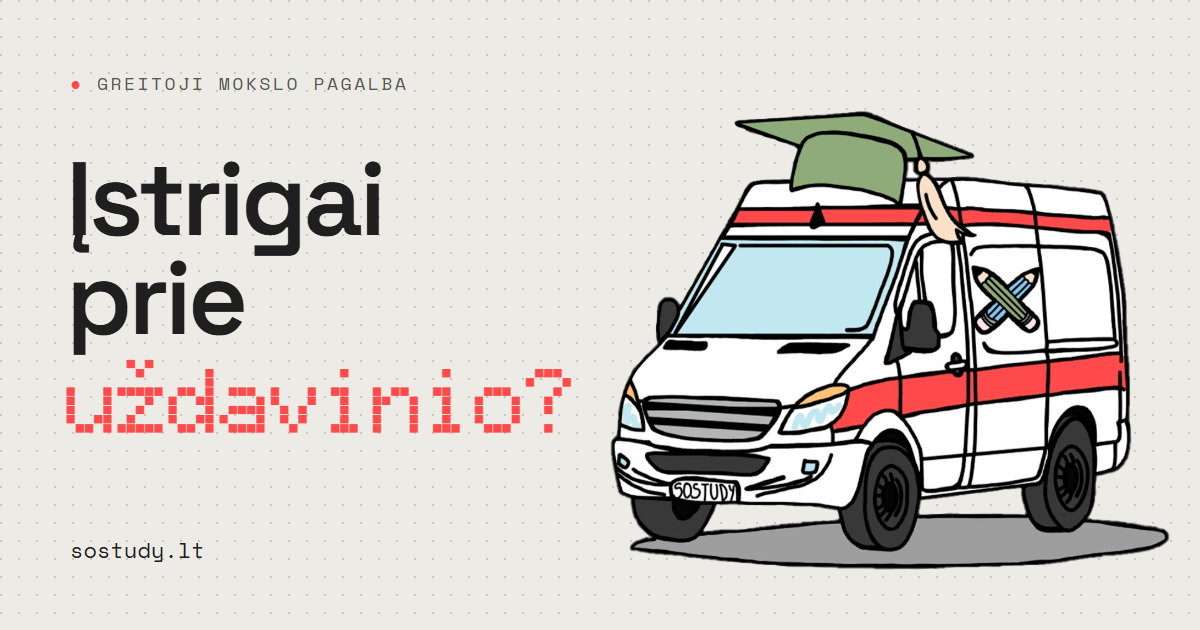
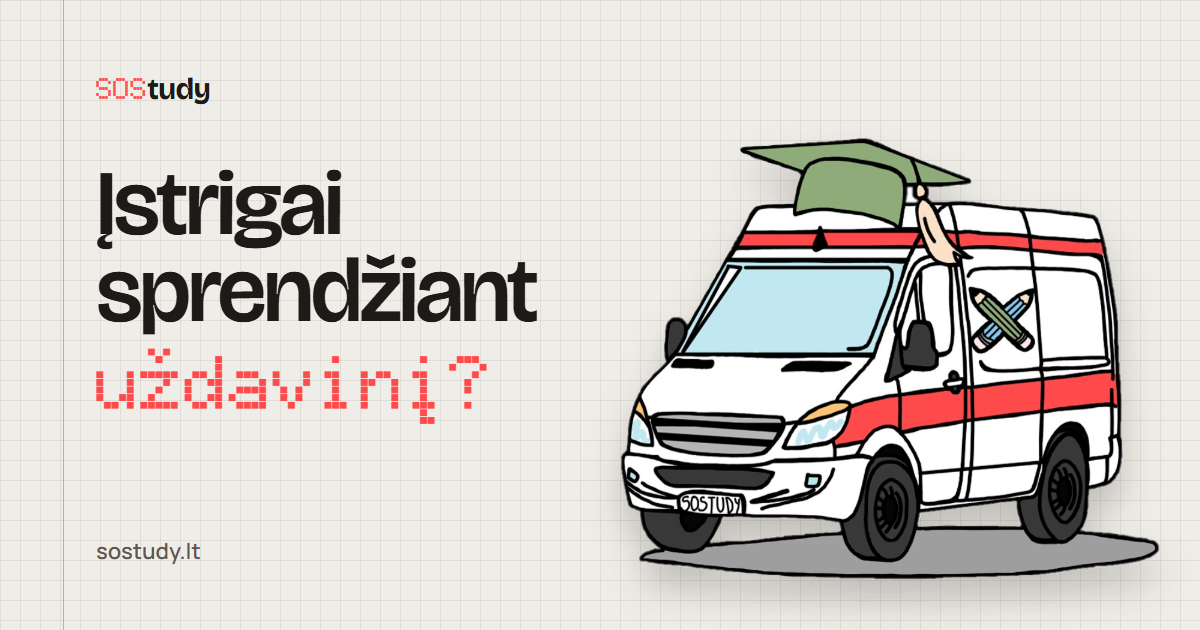
share image

Changed region(s): [[0.0308, 0.181, 0.9867, 0.9651], [0.0617, 0.1206, 0.3392, 0.181], [0.0617, 0.8444, 0.185, 0.9048]]

diff --git a/README.md b/README.md
@@ -23,7 +23,7 @@ apps-script/            Google Calendar availability service
 3. **Social:** check the LinkedIn and Instagram URLs in `assets/js/config.js` and add LinkedIn post URNs to show posts on the About page.
 4. **Legal pages:** fill in the highlighted placeholders (company details, video platform, email provider, retention period).
 
-Fonts and scripts are self-hosted, so the site makes no third-party requests until someone opens LinkedIn posts.
+Fonts and scripts are self-hosted, so the only third-party requests are the Google availability check and LinkedIn posts (loaded on click).
 
 ## Local preview
 
